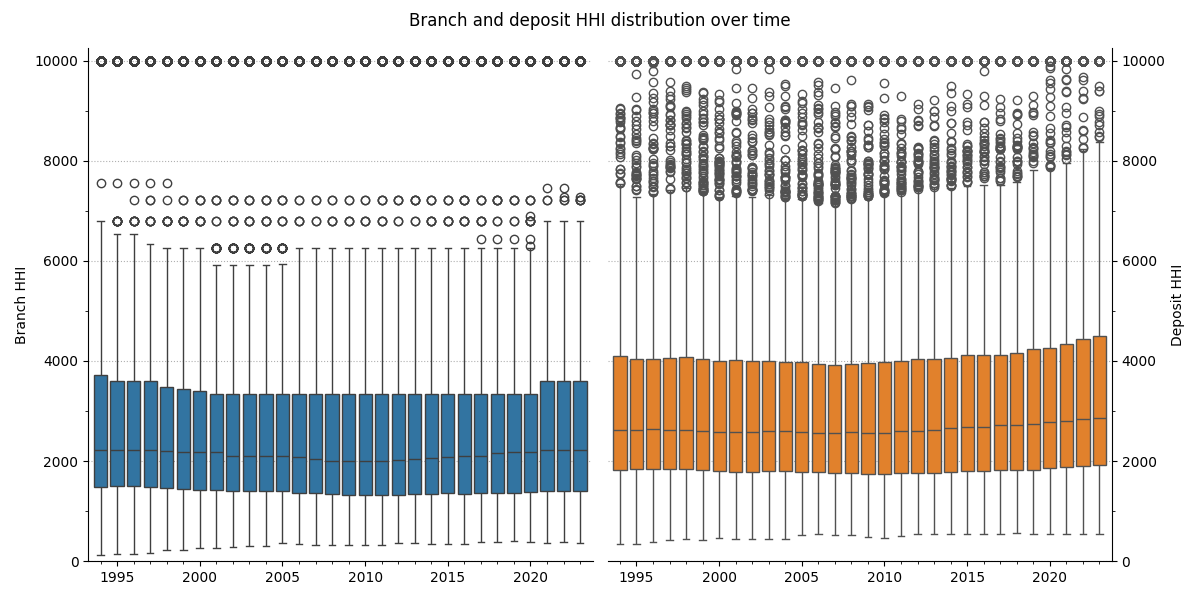
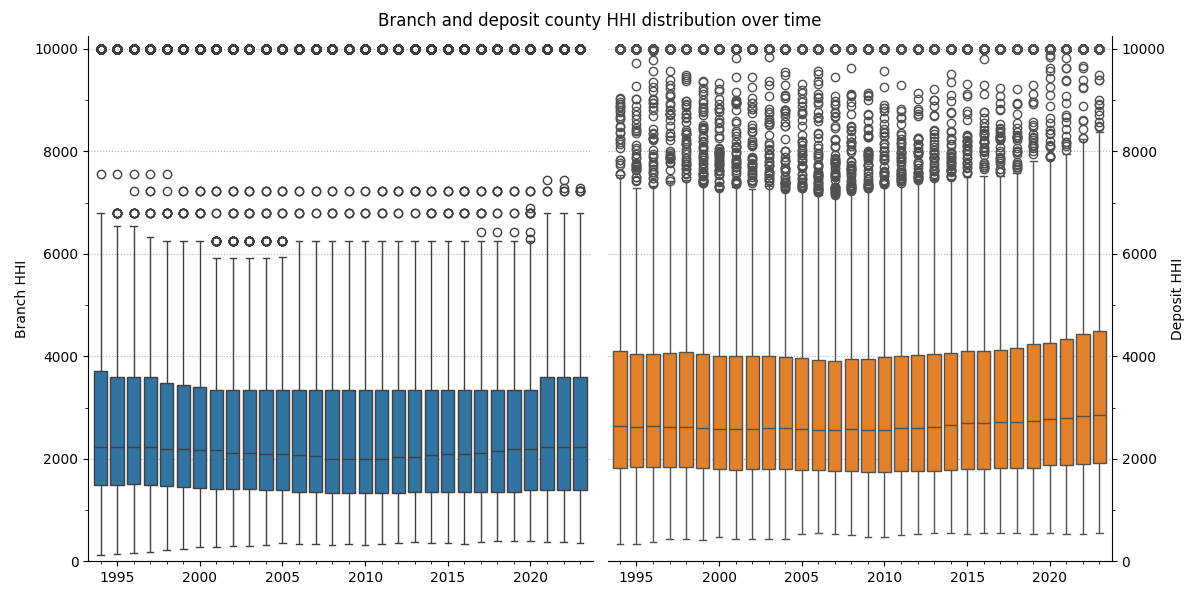
update labels

diff --git a/sod2_figures.py b/sod2_figures.py
@@ -67,7 +67,7 @@ mo_dep['mo_share'] = 100 * (mo_dep['1'] / mo_dep['total'])
 print('calc mo share')
 
 # -----------------------------------------------------------------------------
-# plot main office share
+# plot hhi and main office share
 lims = (hhi['YEAR'].min() - 0.75, hhi['YEAR'].max() + 0.75)
 hhi_f, (hhi_l, hhi_r) = plt.subplots(1, 2, figsize=(12, 6))
 sns.boxplot(x='YEAR', y='BRS_hhi', ax=hhi_l, data=hhi, native_scale=True)
@@ -86,8 +86,8 @@ for ax in [hhi_l, hhi_r]:
     ax.xaxis.set_minor_locator(ticker.MultipleLocator(1))
     ax.grid(ls='dotted', axis='y')
 hhi_f.tight_layout()
-hhi_f.suptitle('Branch and deposit HHI distribution over time')
-hhi_f.subplots_adjust(top=0.92)
+hhi_f.suptitle('Branch and deposit county HHI distribution over time')
+hhi_f.subplots_adjust(top=0.94)
 hhi_f.savefig(path.join('figs', 'sod branch and deposit hhis.png'))
 print('saved hhi figure')
 
